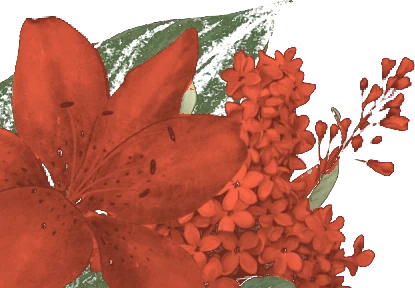
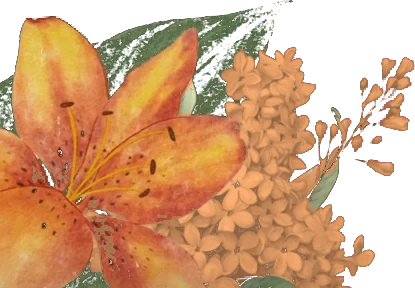
Flores laranja e buquê completo nas dicas

diff --git a/index.html b/index.html
@@ -10,8 +10,8 @@
 <meta property="og:title" content="Isis Paranho Viana · Formatura em Medicina">
 <meta property="og:description" content="Você é meu convidado especial. Toque para abrir o convite.">
 <meta property="og:url" content="https://isisparanho-debug.github.io/formatura/">
-<meta property="og:image" content="https://isisparanho-debug.github.io/formatura/og6.jpg">
-<meta property="og:image:secure_url" content="https://isisparanho-debug.github.io/formatura/og6.jpg">
+<meta property="og:image" content="https://isisparanho-debug.github.io/formatura/og7.jpg">
+<meta property="og:image:secure_url" content="https://isisparanho-debug.github.io/formatura/og7.jpg">
 <meta property="og:image:type" content="image/jpeg">
 <meta property="og:locale" content="pt_BR">
 <meta property="og:image:width" content="1200"><meta property="og:image:height" content="630">
@@ -376,6 +376,8 @@ footer .caps{display:block;margin-top:18px;font-size:11px;letter-spacing:.3em;co
 
 <!-- ========== DICAS ========== -->
 <section id="dicas">
+  <img class="fl" src="img/lilac_or.webp" alt="" style="right:22%;top:-8px;width:24%;transform:scaleX(-1) rotate(-10deg)">
+  <img class="fl" src="img/iris.webp" alt="" style="right:44%;top:-4px;width:12%;transform:rotate(-30deg)">
   <img class="fl" src="img/lilac2_f.webp" alt="" style="right:-4px;top:0;width:30%">
   <div class="rv" style="position:relative;z-index:2">
     <p class="eyebrow">PARA QUEM VEM A IJUÍ</p>
